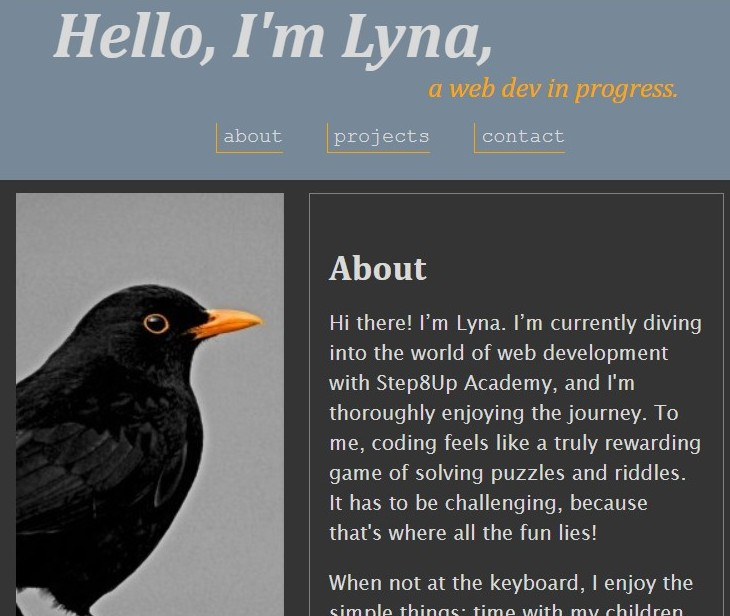
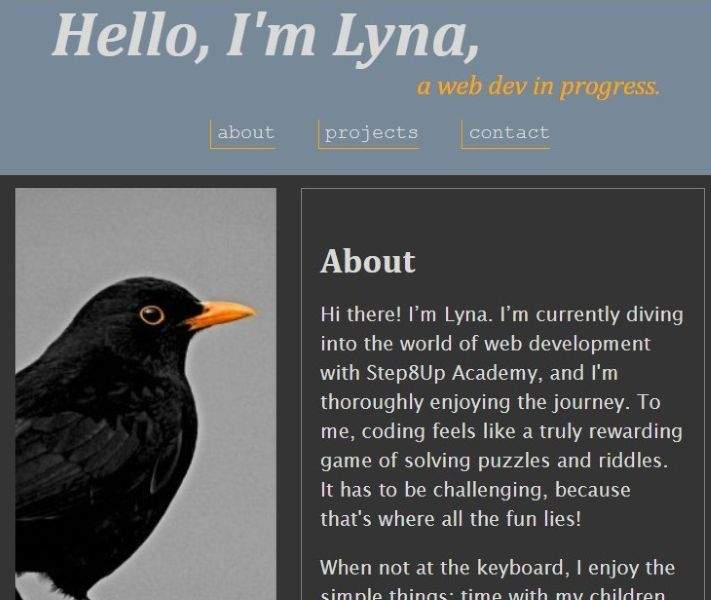
Added images for gallery, resized some images that were too big and heavy.

diff --git a/src/data/masonryData.js b/src/data/masonryData.js
@@ -3,7 +3,7 @@ export const masonryItems =
         {
             id: "1",
             img: "/thumbnails/thumb-1.jpg",
-            height: 400,
+            height: 300,
             title: "My First (Unresponsive ;D) Portfolio Website",
             carouselImgz: ["/img/project1-1.jpg", "/img/project1-2.jpg",],
             description: "Imagine landing on a coding bootcamp and being given caveman tools to design a professional portflolio. It was the challenge I took on for the first assignment. Only \"legacy\" CSS here, no Flexbox or Grid allowed.",
@@ -66,8 +66,8 @@ export const masonryItems =
             img: "/thumbnails/thumb-6.jpg",
             height: 300,
             title: "Simple Notes App - (Full-Stack CRUD)",
-            carouselImgz: ["", "",],
-            description: "A lightweight, responsive web application for managing personal notes. This project demonstrates a complete CRUD (Create, Read, Update, Delete) workflow using a Node/Express backend and a vanilla JavaScript frontend.",  
+            carouselImgz: ["/img/project6-1.jpg","/img/project6-2.jpg"],
+            description: "A lightweight, responsive web application for managing personal notes. This project demonstrates a complete CRUD (Create, Read, Update, Delete) workflow using a Node/Express backend and a Vanilla JavaScript frontend.",  
             live: "https://full-stack-notes-app-node-express.onrender.com/",
             repo: "https://github.com/LynaSim/Full_Stack_Notes_App_Node_Express.git",
         },
